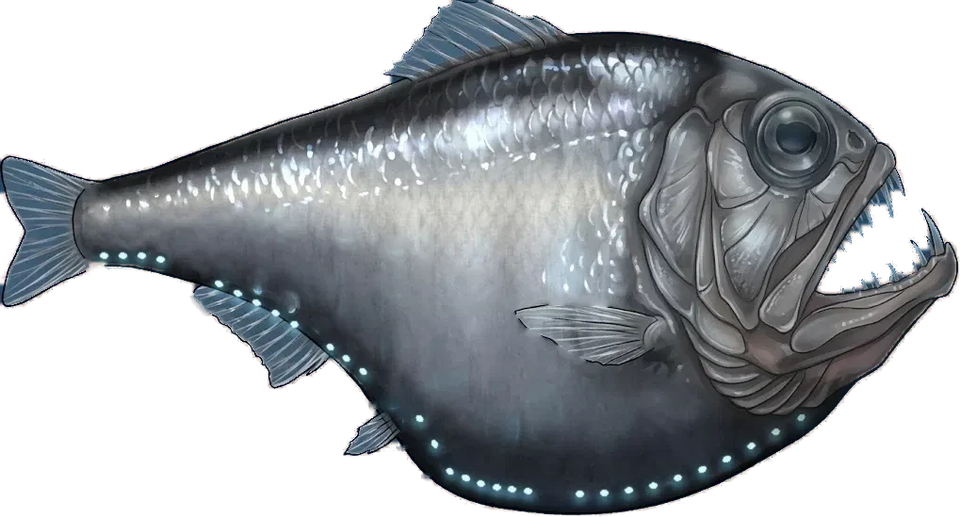
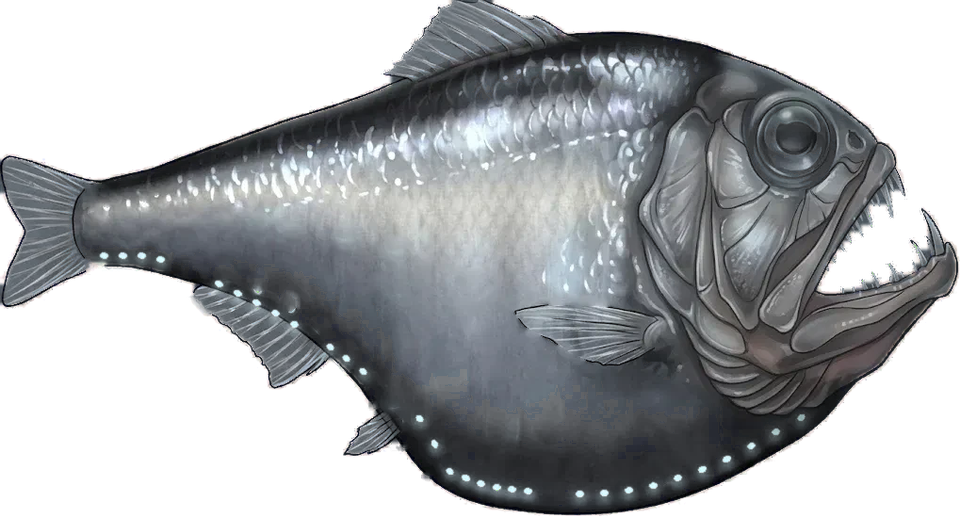
7.6.35: the name redrawn (kerned, painted surface, the deep getting in from the C), hatchetfish without cyan, loading subtitle lower and centred, tips corrected
Claude-Session: https://claude.ai/code/session_01UMKfFhmPWZXhPNpUpqLy9s

diff --git a/index.html b/index.html
@@ -81,8 +81,8 @@
   <link rel="preconnect" href="https://fonts.googleapis.com">
   <link rel="preconnect" href="https://fonts.gstatic.com" crossorigin>
   <link href="https://fonts.googleapis.com/css2?family=Barlow+Semi+Condensed:wght@400;500;600;700&display=block" rel="stylesheet">
-  <link rel="stylesheet" href="css/style.css?v=7.6.34">
-  <link rel="stylesheet" href="css/olive.css?v=7.6.34">
+  <link rel="stylesheet" href="css/style.css?v=7.6.35">
+  <link rel="stylesheet" href="css/olive.css?v=7.6.35">
   <style>
     /* (4.17.2) the loading screen, poster-style: the painting left alone (only a slow push-in), and over it, at the
        lower left, flat type in the sunset's own orange and a warm off-white: a stamped helmet mark, the title, a
@@ -222,7 +222,7 @@
     html body .ld .ld-pct:not(#_a):not(#_b) { transform: translate(20px, -50%) !important; color: rgba(214,222,210,0.75) !important; font-weight: 600 !important; }
     /* (7.1.7) the subtitle sits close under the name (the name's picture has open water below its letters); the hints are
        one small line along the bottom, clear of the bar */
-    html body .ld .ld-title > span { margin-top: calc(-0.07 * min(86vw, 900px)); }
+    html body .ld .ld-title > span { margin-top: calc(-0.025 * min(86vw, 900px)); position: relative; left: calc(-0.05 * min(86vw, 900px)); } /* (7.6.35, owner) further below the name, centred under the word (not the word and the fish) */
     html body .ld .ld-tip:not(#_a) { bottom: max(2.4vh, 8px) !important; max-width: 74vw !important; white-space: nowrap; overflow: hidden; text-overflow: ellipsis; font-size: 12px !important; }
     html body .ld .ld-ver { position: absolute; right: max(3vw, 18px); bottom: max(3vh, 10px); font: 600 12px "Barlow Semi Condensed", sans-serif; letter-spacing: 0.08em; color: rgba(214,222,210,0.45); }
     html body .ld .ld-shade { background: linear-gradient(0deg, rgba(3,8,11,0.82) 0%, rgba(3,8,11,0.3) 30%, rgba(3,8,11,0) 50%), linear-gradient(180deg, rgba(3,8,11,0.35) 0%, rgba(3,8,11,0) 28%) !important; }
@@ -249,7 +249,7 @@
         el.__shown = s; if (f) f.style.clipPath = 'inset(0 ' + ((1 - s) * 100).toFixed(2) + '% 0 0)'; { var hf = el.querySelector('.ld-hf'); if (hf) hf.style.left = (s * 100) + '%'; } /* (7.1.7) the water fills the ripple, the fish swims at its front */ if (pc) pc.textContent = (Math.round(s * 100) * 10).toLocaleString() + ' m';
         el.__raf = s < 1 ? requestAnimationFrame(tick) : 0; };
       el.__raf = requestAnimationFrame(tick); };
-    window.__ldTips = ['Animals from the deep need a pressure chamber, or they won\'t survive the trip up.', 'Found something worth coming back for? Mark it on your chart.', 'Below its depth rating, the sub leaks air faster and faster.', 'Legendary animals hide near the deepest part of their range.', 'A lure pulls the thing in the deep away from you.', 'Sell your catch at the Margaret\'s winch.', 'Some animals come to the light. Some run from it. Some hunt it.', 'Only the advanced trawl net can hold a legend.', 'A buoy found is a place the Margaret can sail back to.']; /* (6.9.0) phone words: no keys */
+    window.__ldTips = ['Animals from the deep need a pressure chamber, or they won\'t survive the trip up.', 'Found something worth coming back for? Mark it on your chart.', 'Below its depth rating, the sub leaks air faster and faster.', 'Legendary animals hide near the deepest part of their range.', 'Scrolls gain charges by themselves, even while you are away.', 'Sell your catch at the Sell door, by the Margaret\'s stern.', 'Some animals come to the light. Some run from it. Some hunt it.', 'Only the advanced trawl net can hold a legend.', 'A buoy found is a place the Margaret can sail back to.']; /* (6.9.0) phone words: no keys */
     window.__ldTip = function (el) { var tip = el && el.querySelector('.ld-tip span') || (function () { var w = el && el.querySelector('.ld-tip'); if (!w) return null; var sp = document.createElement('span'); w.appendChild(sp); return sp; })(); if (!tip) return; var i = Math.floor(Math.random() * window.__ldTips.length); tip.innerHTML = window.__ldTips[i]; clearInterval(el.__tipT); el.__tipT = setInterval(function () { i = (i + 1) % window.__ldTips.length; tip.style.opacity = 0; setTimeout(function () { tip.innerHTML = window.__ldTips[i]; tip.style.opacity = 1; }, 400); }, 4200); };
     window.__boot = function (k, label) { window.__ldSet(document.getElementById('boot'), k, label); };
     window.__bootT0 = Date.now(); /* (6.5.0) the loading screen stays at least 3 s, however fast the game is ready, then fades: the title never flashes up */
@@ -438,96 +438,96 @@
   <!-- stamp:start (tools/stamp.py) -->
   <script type="importmap">
   { "imports": {
-    "./js/abilities.js": "./js/abilities.js?v=7.6.34",
-    "./js/alarm.js": "./js/alarm.js?v=7.6.34",
-    "./js/aquarium.js": "./js/aquarium.js?v=7.6.34",
-    "./js/aquarium_draw.js": "./js/aquarium_draw.js?v=7.6.34",
-    "./js/arm.js": "./js/arm.js?v=7.6.34",
-    "./js/audio.js": "./js/audio.js?v=7.6.34",
-    "./js/autopilot.js": "./js/autopilot.js?v=7.6.34",
-    "./js/barge_draw.js": "./js/barge_draw.js?v=7.6.34",
-    "./js/buoy_draw.js": "./js/buoy_draw.js?v=7.6.34",
-    "./js/cabin.js": "./js/cabin.js?v=7.6.34",
-    "./js/capture.js": "./js/capture.js?v=7.6.34",
-    "./js/catalog.js": "./js/catalog.js?v=7.6.34",
-    "./js/chart.js": "./js/chart.js?v=7.6.34",
-    "./js/chest_art.js": "./js/chest_art.js?v=7.6.34",
-    "./js/chests.js": "./js/chests.js?v=7.6.34",
-    "./js/clouds.js": "./js/clouds.js?v=7.6.34",
-    "./js/codes.js": "./js/codes.js?v=7.6.34",
-    "./js/coin_art.js": "./js/coin_art.js?v=7.6.34",
-    "./js/coins.js": "./js/coins.js?v=7.6.34",
-    "./js/contracts.js": "./js/contracts.js?v=7.6.34",
-    "./js/creatures_draw.js": "./js/creatures_draw.js?v=7.6.34",
-    "./js/dave.js": "./js/dave.js?v=7.6.34",
-    "./js/dave_art.js": "./js/dave_art.js?v=7.6.34",
-    "./js/designs.js": "./js/designs.js?v=7.6.34",
-    "./js/earl_draw.js": "./js/earl_draw.js?v=7.6.34",
-    "./js/economy.js": "./js/economy.js?v=7.6.34",
-    "./js/entity.js": "./js/entity.js?v=7.6.34",
-    "./js/face_draw.js": "./js/face_draw.js?v=7.6.34",
-    "./js/fatfinger.js": "./js/fatfinger.js?v=7.6.34",
-    "./js/fauna.js": "./js/fauna.js?v=7.6.34",
-    "./js/fittings.js": "./js/fittings.js?v=7.6.34",
-    "./js/gallery.js": "./js/gallery.js?v=7.6.34",
-    "./js/gauge_art.js": "./js/gauge_art.js?v=7.6.34",
-    "./js/gear_art.js": "./js/gear_art.js?v=7.6.34",
-    "./js/glyphs.js": "./js/glyphs.js?v=7.6.34",
-    "./js/hud.js": "./js/hud.js?v=7.6.34",
-    "./js/hunters.js": "./js/hunters.js?v=7.6.34",
-    "./js/input.js": "./js/input.js?v=7.6.34",
-    "./js/item_art.js": "./js/item_art.js?v=7.6.34",
-    "./js/item_data.js": "./js/item_data.js?v=7.6.34",
-    "./js/item_words.js": "./js/item_words.js?v=7.6.34",
-    "./js/itemcard.js": "./js/itemcard.js?v=7.6.34",
-    "./js/items.js": "./js/items.js?v=7.6.34",
-    "./js/journal_tank.js": "./js/journal_tank.js?v=7.6.34",
-    "./js/kit_art.js": "./js/kit_art.js?v=7.6.34",
-    "./js/legendfx.js": "./js/legendfx.js?v=7.6.34",
-    "./js/main.js": "./js/main.js?v=7.6.34",
-    "./js/messages.js": "./js/messages.js?v=7.6.34",
-    "./js/monster_draw.js": "./js/monster_draw.js?v=7.6.34",
-    "./js/oldone.js": "./js/oldone.js?v=7.6.34",
-    "./js/petfeed.js": "./js/petfeed.js?v=7.6.34",
-    "./js/pets.js": "./js/pets.js?v=7.6.34",
-    "./js/petshop.js": "./js/petshop.js?v=7.6.34",
-    "./js/player.js": "./js/player.js?v=7.6.34",
-    "./js/purchases.js": "./js/purchases.js?v=7.6.34",
-    "./js/quests.js": "./js/quests.js?v=7.6.34",
-    "./js/render.js": "./js/render.js?v=7.6.34",
-    "./js/reveal.js": "./js/reveal.js?v=7.6.34",
-    "./js/scenery_draw.js": "./js/scenery_draw.js?v=7.6.34",
-    "./js/scrolls.js": "./js/scrolls.js?v=7.6.34",
-    "./js/settings.js": "./js/settings.js?v=7.6.34",
-    "./js/shelf.js": "./js/shelf.js?v=7.6.34",
-    "./js/showcase.js": "./js/showcase.js?v=7.6.34",
-    "./js/sleeper_draw.js": "./js/sleeper_draw.js?v=7.6.34",
-    "./js/species.js": "./js/species.js?v=7.6.34",
-    "./js/species_looks.js": "./js/species_looks.js?v=7.6.34",
-    "./js/specimens.js": "./js/specimens.js?v=7.6.34",
-    "./js/station_draw.js": "./js/station_draw.js?v=7.6.34",
-    "./js/store.js": "./js/store.js?v=7.6.34",
-    "./js/suit_art.js": "./js/suit_art.js?v=7.6.34",
-    "./js/survey.js": "./js/survey.js?v=7.6.34",
-    "./js/tankroom.js": "./js/tankroom.js?v=7.6.34",
-    "./js/textures.js": "./js/textures.js?v=7.6.34",
-    "./js/title_art.js": "./js/title_art.js?v=7.6.34",
-    "./js/tokens.js": "./js/tokens.js?v=7.6.34",
-    "./js/tools_draw.js": "./js/tools_draw.js?v=7.6.34",
-    "./js/touch.js": "./js/touch.js?v=7.6.34",
-    "./js/trail.js": "./js/trail.js?v=7.6.34",
-    "./js/traps.js": "./js/traps.js?v=7.6.34",
-    "./js/tutspot.js": "./js/tutspot.js?v=7.6.34",
-    "./js/ui.js": "./js/ui.js?v=7.6.34",
-    "./js/undocumented_draw.js": "./js/undocumented_draw.js?v=7.6.34",
-    "./js/units.js": "./js/units.js?v=7.6.34",
-    "./js/util.js": "./js/util.js?v=7.6.34",
-    "./js/variants.js": "./js/variants.js?v=7.6.34",
-    "./js/version.js": "./js/version.js?v=7.6.34",
-    "./js/world.js": "./js/world.js?v=7.6.34",
-    "./data/species_about.js": "./data/species_about.js?v=7.6.34",
-    "./data/species_data.js": "./data/species_data.js?v=7.6.34",
-    "./data/species_more.js": "./data/species_more.js?v=7.6.34"
+    "./js/abilities.js": "./js/abilities.js?v=7.6.35",
+    "./js/alarm.js": "./js/alarm.js?v=7.6.35",
+    "./js/aquarium.js": "./js/aquarium.js?v=7.6.35",
+    "./js/aquarium_draw.js": "./js/aquarium_draw.js?v=7.6.35",
+    "./js/arm.js": "./js/arm.js?v=7.6.35",
+    "./js/audio.js": "./js/audio.js?v=7.6.35",
+    "./js/autopilot.js": "./js/autopilot.js?v=7.6.35",
+    "./js/barge_draw.js": "./js/barge_draw.js?v=7.6.35",
+    "./js/buoy_draw.js": "./js/buoy_draw.js?v=7.6.35",
+    "./js/cabin.js": "./js/cabin.js?v=7.6.35",
+    "./js/capture.js": "./js/capture.js?v=7.6.35",
+    "./js/catalog.js": "./js/catalog.js?v=7.6.35",
+    "./js/chart.js": "./js/chart.js?v=7.6.35",
+    "./js/chest_art.js": "./js/chest_art.js?v=7.6.35",
+    "./js/chests.js": "./js/chests.js?v=7.6.35",
+    "./js/clouds.js": "./js/clouds.js?v=7.6.35",
+    "./js/codes.js": "./js/codes.js?v=7.6.35",
+    "./js/coin_art.js": "./js/coin_art.js?v=7.6.35",
+    "./js/coins.js": "./js/coins.js?v=7.6.35",
+    "./js/contracts.js": "./js/contracts.js?v=7.6.35",
+    "./js/creatures_draw.js": "./js/creatures_draw.js?v=7.6.35",
+    "./js/dave.js": "./js/dave.js?v=7.6.35",
+    "./js/dave_art.js": "./js/dave_art.js?v=7.6.35",
+    "./js/designs.js": "./js/designs.js?v=7.6.35",
+    "./js/earl_draw.js": "./js/earl_draw.js?v=7.6.35",
+    "./js/economy.js": "./js/economy.js?v=7.6.35",
+    "./js/entity.js": "./js/entity.js?v=7.6.35",
+    "./js/face_draw.js": "./js/face_draw.js?v=7.6.35",
+    "./js/fatfinger.js": "./js/fatfinger.js?v=7.6.35",
+    "./js/fauna.js": "./js/fauna.js?v=7.6.35",
+    "./js/fittings.js": "./js/fittings.js?v=7.6.35",
+    "./js/gallery.js": "./js/gallery.js?v=7.6.35",
+    "./js/gauge_art.js": "./js/gauge_art.js?v=7.6.35",
+    "./js/gear_art.js": "./js/gear_art.js?v=7.6.35",
+    "./js/glyphs.js": "./js/glyphs.js?v=7.6.35",
+    "./js/hud.js": "./js/hud.js?v=7.6.35",
+    "./js/hunters.js": "./js/hunters.js?v=7.6.35",
+    "./js/input.js": "./js/input.js?v=7.6.35",
+    "./js/item_art.js": "./js/item_art.js?v=7.6.35",
+    "./js/item_data.js": "./js/item_data.js?v=7.6.35",
+    "./js/item_words.js": "./js/item_words.js?v=7.6.35",
+    "./js/itemcard.js": "./js/itemcard.js?v=7.6.35",
+    "./js/items.js": "./js/items.js?v=7.6.35",
+    "./js/journal_tank.js": "./js/journal_tank.js?v=7.6.35",
+    "./js/kit_art.js": "./js/kit_art.js?v=7.6.35",
+    "./js/legendfx.js": "./js/legendfx.js?v=7.6.35",
+    "./js/main.js": "./js/main.js?v=7.6.35",
+    "./js/messages.js": "./js/messages.js?v=7.6.35",
+    "./js/monster_draw.js": "./js/monster_draw.js?v=7.6.35",
+    "./js/oldone.js": "./js/oldone.js?v=7.6.35",
+    "./js/petfeed.js": "./js/petfeed.js?v=7.6.35",
+    "./js/pets.js": "./js/pets.js?v=7.6.35",
+    "./js/petshop.js": "./js/petshop.js?v=7.6.35",
+    "./js/player.js": "./js/player.js?v=7.6.35",
+    "./js/purchases.js": "./js/purchases.js?v=7.6.35",
+    "./js/quests.js": "./js/quests.js?v=7.6.35",
+    "./js/render.js": "./js/render.js?v=7.6.35",
+    "./js/reveal.js": "./js/reveal.js?v=7.6.35",
+    "./js/scenery_draw.js": "./js/scenery_draw.js?v=7.6.35",
+    "./js/scrolls.js": "./js/scrolls.js?v=7.6.35",
+    "./js/settings.js": "./js/settings.js?v=7.6.35",
+    "./js/shelf.js": "./js/shelf.js?v=7.6.35",
+    "./js/showcase.js": "./js/showcase.js?v=7.6.35",
+    "./js/sleeper_draw.js": "./js/sleeper_draw.js?v=7.6.35",
+    "./js/species.js": "./js/species.js?v=7.6.35",
+    "./js/species_looks.js": "./js/species_looks.js?v=7.6.35",
+    "./js/specimens.js": "./js/specimens.js?v=7.6.35",
+    "./js/station_draw.js": "./js/station_draw.js?v=7.6.35",
+    "./js/store.js": "./js/store.js?v=7.6.35",
+    "./js/suit_art.js": "./js/suit_art.js?v=7.6.35",
+    "./js/survey.js": "./js/survey.js?v=7.6.35",
+    "./js/tankroom.js": "./js/tankroom.js?v=7.6.35",
+    "./js/textures.js": "./js/textures.js?v=7.6.35",
+    "./js/title_art.js": "./js/title_art.js?v=7.6.35",
+    "./js/tokens.js": "./js/tokens.js?v=7.6.35",
+    "./js/tools_draw.js": "./js/tools_draw.js?v=7.6.35",
+    "./js/touch.js": "./js/touch.js?v=7.6.35",
+    "./js/trail.js": "./js/trail.js?v=7.6.35",
+    "./js/traps.js": "./js/traps.js?v=7.6.35",
+    "./js/tutspot.js": "./js/tutspot.js?v=7.6.35",
+    "./js/ui.js": "./js/ui.js?v=7.6.35",
+    "./js/undocumented_draw.js": "./js/undocumented_draw.js?v=7.6.35",
+    "./js/units.js": "./js/units.js?v=7.6.35",
+    "./js/util.js": "./js/util.js?v=7.6.35",
+    "./js/variants.js": "./js/variants.js?v=7.6.35",
+    "./js/version.js": "./js/version.js?v=7.6.35",
+    "./js/world.js": "./js/world.js?v=7.6.35",
+    "./data/species_about.js": "./data/species_about.js?v=7.6.35",
+    "./data/species_data.js": "./data/species_data.js?v=7.6.35",
+    "./data/species_more.js": "./data/species_more.js?v=7.6.35"
   } }
   </script>
   <script type="module">if (!window.__shell) import("./js/main.js");</script>

diff --git a/js/title_art.js b/js/title_art.js
@@ -17,17 +17,20 @@ const G = {
   S: [['path', 'M54 14 C46 2 10 0 10 26 C10 50 50 46 50 74 C50 100 14 102 4 86']],
 };
 const WIDTH = { H: 60, A: 60, T: 58, C: 62, E: 54, F: 48, I: 26, S: 58 }; // (advances set by eye, so the gaps look even)
+// (7.6.35, owner) pairs kerned by eye: the T's stem stands in the middle of its bar, the A is narrow at the top, so the
+// word read "HA TCHE TFISH"; these pull the open pairs together so it reads as one
+const KERN = { AT: -7, TC: -4, ET: -2, TF: -3, HE: 3 };
 
 let cache = null;
 function letters(scale) {
   if (cache && cache.scale === scale) return cache;
-  const word = 'HATCHETFISH', gap = 9, total = [...word].reduce((a, ch) => a + WIDTH[ch] + gap, -gap);
+  const word = 'HATCHETFISH', gap = 9, kern = (i) => (i + 1 < word.length ? KERN[word[i] + word[i + 1]] || 0 : 0), total = [...word].reduce((a, ch, i) => a + WIDTH[ch] + gap + kern(i), -gap);
   const pad = 24, cw = Math.ceil((total + pad * 2) * scale), ch = Math.ceil((100 + pad * 2) * scale);
   const c = document.createElement('canvas'); c.width = cw; c.height = ch; const x = c.getContext('2d');
   let sd = 1234; const r = () => ((sd = (sd * 16807) % 2147483647) / 2147483647);
   x.translate(pad * scale, pad * scale); x.scale(scale, scale);
   x.lineCap = 'butt'; x.lineJoin = 'miter';
-  let ox = 0;
+  let ox = 0, ci = 0;
   for (const chr of word) {
     x.save(); x.translate(ox, (r() - 0.5) * 3); x.rotate((r() - 0.5) * 0.03); // each letter set by hand: a little off true
     const strokes = G[chr];
@@ -49,16 +52,47 @@ function letters(scale) {
       if (s[0] === 'arc' || s[0] === 'path' || Math.abs(s[0] - s[2]) > 2) continue;
       for (const yy of [s[1], s[3]]) { const dir = yy < 50 ? 1 : -1, fw = W0 * (0.85 + r() * 0.2); x.beginPath(); x.moveTo(s[0] - fw, yy); x.lineTo(s[0] + fw, yy); x.lineTo(s[0] + W0 * 0.5, yy + dir * 7); x.lineTo(s[0] - W0 * 0.5, yy + dir * 7); x.closePath(); x.fill(); }
     }
-    x.restore(); ox += WIDTH[chr] + gap;
+    x.restore(); ox += WIDTH[chr] + gap + kern(ci); ci++;
   }
   x.setTransform(1, 0, 0, 1, 0, 0);
-  // wear: the paint gone in small chips and specks; a darker inner edge where it is thickest
+  // (7.6.35, owner) the surface, painted: no sprayed dots. The paint worn back at the edges in uneven chips (more where the
+  // letters are older, toward the right), a fine grain through it, a pale lip along the tops where light from above
+  // catches, and each letter darkening toward its foot
+  const mask = document.createElement('canvas'); mask.width = cw; mask.height = ch; mask.getContext('2d').drawImage(c, 0, 0);
+  const md = mask.getContext('2d').getImageData(0, 0, cw, ch).data, solid = (px, py) => px >= 0 && py >= 0 && px < cw && py < ch && md[((py | 0) * cw + (px | 0)) * 4 + 3] > 128;
+  const edge = (px, py, d) => solid(px, py) && (!solid(px + d, py) || !solid(px - d, py) || !solid(px, py + d) || !solid(px, py - d));
+  const fAt = (px) => { const u = px / cw; return u < 0.3 ? 0 : Math.min(1, Math.pow((u - 0.3) / 0.62, 1.3)); }; // how far the deep has got in, from the C on
   x.globalCompositeOperation = 'destination-out';
-  for (let i = 0; i < 260; i++) { const px = r() * cw, py = r() * ch, rr = (0.3 + r() * r() * 1.4) * scale; x.globalAlpha = 0.25 + r() * 0.45; x.beginPath(); x.ellipse(px, py, rr * 1.4, rr, r() * 3, 0, Math.PI * 2); x.fill(); }
+  for (let i = 0; i < 2600; i++) { const px = r() * cw, py = r() * ch, f = fAt(px); if (!edge(px, py, 1.2 * scale)) continue; if (r() > 0.12 + 0.5 * f) continue;
+    const rr = (0.35 + r() * r() * (0.9 + 1.6 * f)) * scale, n = 7 + (r() * 4 | 0); x.globalAlpha = 0.7 + r() * 0.3; x.beginPath();
+    for (let k = 0; k < n; k++) { const a = k / n * Math.PI * 2, q = rr * (0.5 + r() * 0.7); k ? x.lineTo(px + Math.cos(a) * q, py + Math.sin(a) * q) : x.moveTo(px + Math.cos(a) * q, py + Math.sin(a) * q); } x.closePath(); x.fill(); } // chips bitten from the edges
   x.globalAlpha = 1; x.globalCompositeOperation = 'source-atop';
-  const gg = x.createLinearGradient(0, 0, 0, ch); gg.addColorStop(0, 'rgba(255,250,232,0.18)'); gg.addColorStop(0.5, 'rgba(0,0,0,0)'); gg.addColorStop(1, 'rgba(40,30,16,0.25)'); x.fillStyle = gg; x.fillRect(0, 0, cw, ch);
+  const gg = x.createLinearGradient(0, 0, 0, ch); gg.addColorStop(0, 'rgba(255,250,232,0.12)'); gg.addColorStop(0.45, 'rgba(0,0,0,0)'); gg.addColorStop(1, 'rgba(46,36,20,0.38)'); x.fillStyle = gg; x.fillRect(0, 0, cw, ch);
+  { const id = x.getImageData(0, 0, cw, ch), d = id.data, cell = Math.max(1, Math.round(0.7 * scale)), nz = (a, b) => { const v = Math.sin(a * 127.1 + b * 311.7) * 43758.5453; return v - Math.floor(v); };
+    for (let py = 0; py < ch; py++) for (let px = 0; px < cw; px++) { const o = (py * cw + px) * 4; if (!d[o + 3]) continue; const g2 = 0.95 + 0.06 * nz((px / cell) | 0, (py / cell) | 0) + 0.03 * nz(px, py); d[o] *= g2; d[o + 1] *= g2; d[o + 2] *= g2; }
+    x.putImageData(id, 0, 0); } // the grain
+  { const lip = document.createElement('canvas'); lip.width = cw; lip.height = ch; const lx = lip.getContext('2d'); lx.drawImage(c, 0, 0); lx.globalCompositeOperation = 'source-in'; lx.fillStyle = 'rgb(255,248,226)'; lx.fillRect(0, 0, cw, ch);
+    lx.globalCompositeOperation = 'destination-out'; lx.drawImage(mask, 0, 2.2 * scale); x.globalCompositeOperation = 'source-atop'; x.globalAlpha = 0.45; x.drawImage(lip, 0, 0); x.globalAlpha = 1; } // the lit top lip
   x.globalCompositeOperation = 'source-over';
-  cache = { c, scale, cw, ch };
+  // (7.6.35, owner) the deep getting into it, on a layer of its own (so it can breathe on the title): from the C on the
+  // bone sinks through olive and drowned green to near black teal by the S H; silt stains rise from the feet; rust crust
+  // and small barnacles gather at the corners; fine dark threads creep across the last letters toward the fish; and a
+  // few sharp pricks of cold light show only in the darkest letters. All inside the letters' own shape
+  const inf = document.createElement('canvas'); inf.width = cw; inf.height = ch; const ix = inf.getContext('2d');
+  { const hg = ix.createLinearGradient(cw * 0.28, 0, cw * 0.97, 0); hg.addColorStop(0, 'rgba(96,100,64,0)'); hg.addColorStop(0.35, 'rgba(92,98,62,0.38)'); hg.addColorStop(0.7, 'rgba(36,62,54,0.66)'); hg.addColorStop(1, 'rgba(12,30,32,0.86)'); ix.fillStyle = hg; ix.fillRect(0, 0, cw, ch);
+    for (let sx = 0; sx < cw; sx += 3) { const f = fAt(sx); if (f <= 0) continue; const hh = ch * (0.18 + 0.4 * f) * (0.75 + 0.5 * Math.abs(Math.sin(sx * 0.037) * Math.sin(sx * 0.011 + 1.3))), sg = ix.createLinearGradient(0, ch - pad * scale * 0.9, 0, ch - pad * scale * 0.9 - hh);
+      sg.addColorStop(0, `rgba(48,40,26,${(0.55 * f).toFixed(3)})`); sg.addColorStop(1, 'rgba(48,40,26,0)'); ix.fillStyle = sg; ix.fillRect(sx, 0, 3.4, ch); } // silt stains rising
+    for (let i = 0; i < 1800; i++) { const px = r() * cw, py = r() * ch, f = fAt(px); if (f <= 0.05 || r() > f * f || !edge(px, py, 3 * scale)) continue;
+      if (r() < 0.55) { const rr = (1 + r() * 2.4) * scale; ix.fillStyle = `rgba(${110 + (r() * 30 | 0)},${60 + (r() * 20 | 0)},${34 + (r() * 12 | 0)},${(0.35 + 0.35 * r()).toFixed(3)})`; ix.beginPath(); ix.ellipse(px, py, rr * 1.5, rr, r() * 3, 0, Math.PI * 2); ix.fill(); } // rust crust
+      else { const rr = (0.9 + r() * 1.5) * scale; ix.fillStyle = 'rgba(176,170,146,0.85)'; ix.beginPath(); ix.ellipse(px, py, rr, rr * 0.8, 0, 0, Math.PI * 2); ix.fill(); ix.fillStyle = 'rgba(20,22,18,0.8)'; ix.beginPath(); ix.ellipse(px, py - rr * 0.1, rr * 0.42, rr * 0.3, 0, 0, Math.PI * 2); ix.fill(); ix.strokeStyle = 'rgba(230,226,206,0.5)'; ix.lineWidth = Math.max(0.5, rr * 0.25); ix.beginPath(); ix.arc(px, py, rr * 0.85, Math.PI * 1.1, Math.PI * 1.7); ix.stroke(); } } // a barnacle: a pale cone, its dark mouth, light on its rim
+    ix.lineCap = 'round';
+    for (let i = 0; i < 14; i++) { let px = cw * (0.97 - r() * 0.3), py = ch * (0.15 + r() * 0.7), a = Math.PI + (r() - 0.5) * 1.4; const L = (40 + r() * 90) * scale, w0 = (0.8 + r() * 0.9) * scale; // threads creeping in from the fish's side
+      ix.strokeStyle = `rgba(10,18,16,${(0.55 + 0.3 * r()).toFixed(3)})`; for (let s2 = 0; s2 < L; s2 += 2 * scale) { const k = s2 / L; a += (r() - 0.5) * 0.5; const nx = px + Math.cos(a) * 2 * scale, ny = py + Math.sin(a) * 2 * scale; ix.lineWidth = w0 * (1 - k * 0.8); ix.beginPath(); ix.moveTo(px, py); ix.lineTo(nx, ny); ix.stroke(); px = nx; py = ny; if (r() < 0.04) { let bx = px, by = py, ba = a + (r() < 0.5 ? 0.9 : -0.9); for (let q = 0; q < 8; q++) { const bx2 = bx + Math.cos(ba) * 1.6 * scale, by2 = by + Math.sin(ba) * 1.6 * scale; ix.lineWidth = w0 * 0.4 * (1 - q / 8); ix.beginPath(); ix.moveTo(bx, by); ix.lineTo(bx2, by2); ix.stroke(); bx = bx2; by = by2; ba += (r() - 0.5) * 0.6; } } } }
+    ix.globalCompositeOperation = 'lighter';
+    for (let i = 0; i < 400; i++) { const px = r() * cw, py = r() * ch, f = fAt(px); if (f < 0.6 || r() > (f - 0.6) * 1.2 || !solid(px, py)) continue; const L = (1.2 + r() * 2.2) * scale, an = (r() - 0.5) * 0.6; ix.strokeStyle = `rgba(196,226,200,${(0.5 + 0.4 * r()).toFixed(3)})`; ix.lineWidth = Math.max(0.6, 0.45 * scale); ix.beginPath(); ix.moveTo(px - Math.cos(an) * L, py - Math.sin(an) * L); ix.lineTo(px + Math.cos(an) * L, py + Math.sin(an) * L); ix.stroke(); } // cold pricks of light
+    ix.globalCompositeOperation = 'destination-in'; ix.drawImage(c, 0, 0); ix.globalCompositeOperation = 'source-over'; }
+  const base = c;
+  cache = { c: base, inf, scale, cw, ch };
   return cache;
 }
 
@@ -125,14 +159,20 @@ export function paintTitle(ctx, W, H, t = 0, dpr = 1) {
     for (let y = 0; y < lh; y += sl) {
       const off = Math.sin(y / (14 * dpr) + t * 1.4) * 1.6 * dpr + Math.sin(y / (37 * dpr) - t * 0.6) * 1.1 * dpr;
       lx2.drawImage(L.c, 0, (y / lh) * L.ch, L.cw, (sl / lh) * L.ch, lx + off, ly + y, lw, sl);
+      lx2.globalAlpha = 0.86 + 0.14 * Math.sin(t * 0.22); lx2.drawImage(L.inf, 0, (y / lh) * L.ch, L.cw, (sl / lh) * L.ch, lx + off, ly + y, lw, sl); lx2.globalAlpha = 1; // (7.6.35) the deep in it, breathing slowly
     }
     lx2.save(); lx2.globalCompositeOperation = 'source-atop';
     const wg = lx2.createLinearGradient(0, ly, 0, ly + lh); wg.addColorStop(0, 'rgba(60,110,120,0.12)'); wg.addColorStop(1, 'rgba(12,40,58,0.5)'); lx2.fillStyle = wg; lx2.fillRect(0, 0, W, H);
     lx2.strokeStyle = 'rgba(240,250,236,0.16)'; lx2.lineWidth = 1.2 * dpr;
-    for (let i = 0; i < 26; i++) { const cx = ((i * 97 + t * 18 * dpr) % (W + 80)) - 40, cy = ly + ((i * 53) % 100) / 100 * lh, rr = (14 + (i * 7) % 16) * dpr; lx2.beginPath(); lx2.ellipse(cx, cy, rr, rr * 0.4, Math.sin(t * 0.3 + i) * 0.4, 0, Math.PI * 1.6); lx2.stroke(); }
+    // (7.6.35, owner) light through the surface: a broken net of thin wavering lines drifting slowly over the letters,
+    // never rings
+    lx2.strokeStyle = 'rgba(240,250,236,0.11)'; lx2.lineWidth = 1 * dpr;
+    for (let i = 0; i < 9; i++) { const y0 = ly + (i + 0.5) / 9 * lh; lx2.beginPath(); let pen = false;
+      for (let x0 = lx; x0 <= lx + lw; x0 += 6 * dpr) { const yy = y0 + Math.sin(x0 / (23 * dpr) + t * 0.5 + i * 1.7) * 7 * dpr + Math.sin(x0 / (9 * dpr) - t * 0.8 + i) * 2 * dpr, on = Math.sin(x0 / (41 * dpr) + i * 2.3 + t * 0.3) > -0.2;
+        if (on) { pen ? lx2.lineTo(x0, yy) : lx2.moveTo(x0, yy); pen = true; } else pen = false; } lx2.stroke(); }
     lx2.restore();
     // (7.0.2) a soft shadow under the letters, cast down and a little right, so they stand off the sea behind
-    ctx.save(); ctx.globalAlpha = 0.62; ctx.filter = `brightness(0) blur(${(5 * dpr).toFixed(1)}px)`; ctx.drawImage(lay, 2 * dpr, 5 * dpr); ctx.restore();
+    ctx.save(); ctx.globalAlpha = 0.5; ctx.filter = `brightness(0) blur(${(2.2 * dpr).toFixed(1)}px)`; ctx.drawImage(lay, 1.5 * dpr, 3.5 * dpr); ctx.restore(); // (7.6.35) a tighter contact shadow
     ctx.save(); ctx.globalAlpha = 0.35; ctx.filter = `brightness(0) blur(${(1.2 * dpr).toFixed(1)}px)`; ctx.drawImage(lay, 0.8 * dpr, 2 * dpr); ctx.restore(); // and a tight one at their edge
     ctx.drawImage(lay, 0, 0);
     // (7.0.2) the hatchetfish after the word, facing it, wholly seen: hanging in the water, bobbing and turning a little

diff --git a/js/version.js b/js/version.js
@@ -1,3 +1,3 @@
 // The game's version. Bumped with every change: the last number for small fixes and tweaks,
 // the middle one for new features or bigger changes, the first for a major overhaul.
-export const VERSION = '7.6.34';
+export const VERSION = '7.6.35';

diff --git a/CLAUDE.md b/CLAUDE.md
@@ -297,6 +297,13 @@ last desktop build is kept on the branch `desktop-4.25.5`).
 - (7.6.33, owner) The legendary wake is 26-40 marks, never a plain circle: streaks (motes), tiny fish (Magnetic), bells
   with threads (Kinship), blinking almonds (Eye of the Sea), wobbling bubble clusters (Second Wind), ember slivers and ash
   flakes (Faithless), stretched smoky flecks (Phantom). Dauntless's rings fewer and lighter (heat).
+- (7.6.35, owner) The name (title_art.js, baked into assets/loading/title.png by calling `paintTitle` at 1640 x 440, t 2,
+  dpr 2): pairs kerned by eye (KERN), painted bone with fine grain, small chips worn from the edges, a lit top lip and a
+  darker foot; the deep getting in from the C on (its own layer, breathing slowly on the title): olive to drowned green to
+  near-black teal by the S H, silt rising from the feet, rust crust and barnacles at the corners, dark threads creeping in
+  from the fish's side, a few cold pricks of light; light through the surface a broken net of wavering lines (never
+  rings); a tight contact shadow. The hatchetfish's light organs pale bone, its fins and teeth silver (no cyan). On the
+  loading screen the subtitle sits lower, centred under the word.
 - **(7.6.28, 7.6.33, owner) Saves carry over**: a change must not wipe or break the owner's saves (economy.js `migrate` fills
   anything new from a fresh profile), and the game quietly keeps the last version's save beside each slot
   (`earl.save.slotN.prev`; economy.js `restorePrevSave`). No backup or restore buttons (7.6.34, owner: unnecessary). Superseded:

diff --git a/README.md b/README.md
@@ -1,6 +1,6 @@
 # Hatchetfish — Deep Sea Survival
 
-Version 7.6.34 (shown on the home screen and in the pause menu; see `js/version.js`).
+Version 7.6.35 (shown on the home screen and in the pause menu; see `js/version.js`).
 
 A 2D ocean diving and survival horror game that runs in the browser (desktop).
 
